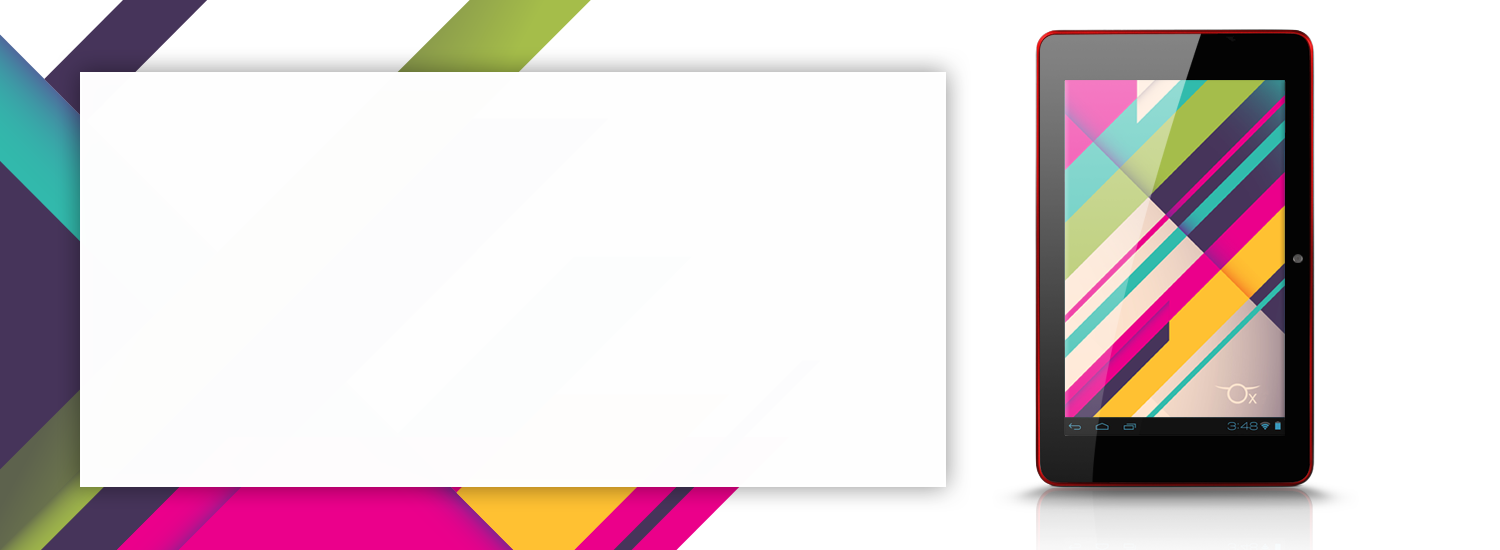
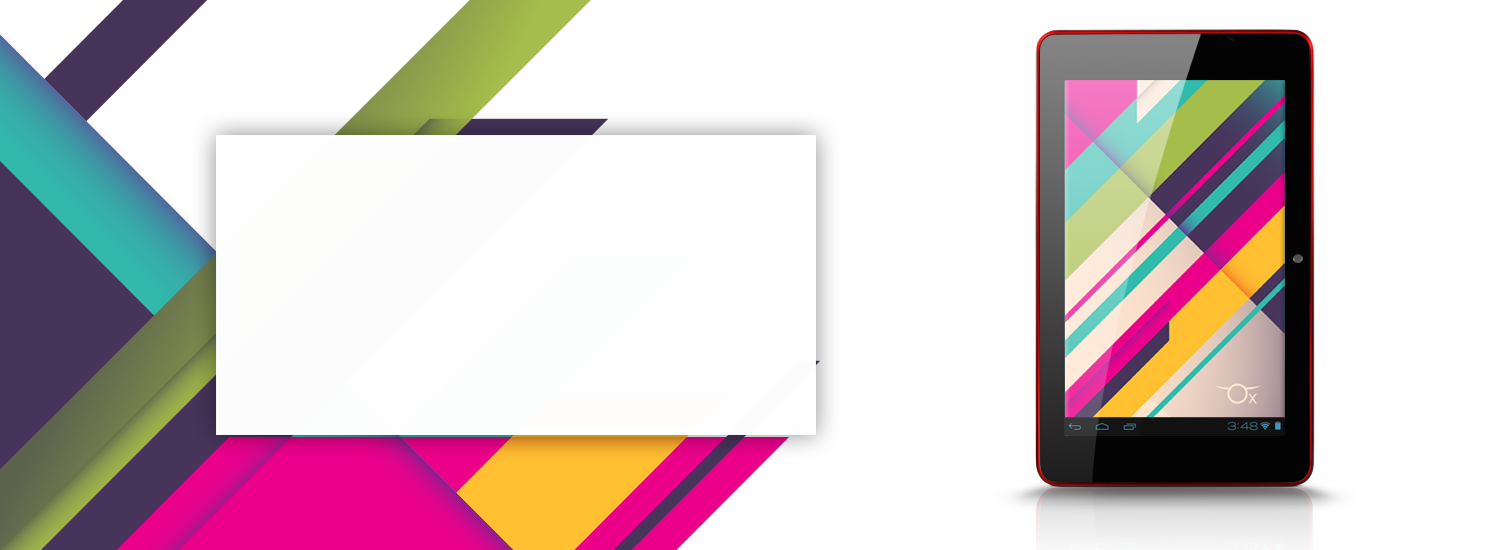
Trying new images front page.

Changed region(s): [[0.0307, 0.0927, 0.644, 0.9273]]

diff --git a/Oxjr.html b/Oxjr.html
@@ -47,7 +47,6 @@ title: Oxjr
 			</p>
 		</div>
 	</div>
-	<div class="whiteSpace"></div>
 	<div class="row-fluid">
 		<div class="span10 offset1">
 			<img src="img/OXJR-menu.png" alt="Ox Jr kids software">
@@ -55,7 +54,7 @@ title: Oxjr
 	</div>
 	<div class="row-fluid">
 		<div class="span12">
-			<img src="img/OXJR-menu4.png" alt="Ox Jr Aplicaciones educativas, Juegos, y Aplicaciones principales">
+			<img src="img/OXJR-menu4.png" style="margin-top: -125px;" alt="Ox Jr Aplicaciones educativas, Juegos, y Aplicaciones principales">
 		</div>
 	</div>
 	<div class="whiteSpace"></div>

diff --git a/index.html b/index.html
@@ -17,7 +17,7 @@ title: OX Tablet
 <div id="carousel" class="carousel slide">
       <div class="carousel-inner">
         <div class="item active">
-          <img src="img/OX7-main.png" alt="Tableta OX 7">
+          <img src="img/OX7-main1.png" alt="Tableta OX 7">
           <div class="container">
             <div class="carousel-caption">
               <h2 class="headLineBig greyLight">Una tableta mas inteligente para jovenes niños y niñas</h2>
